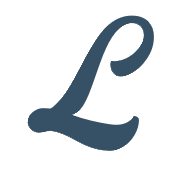
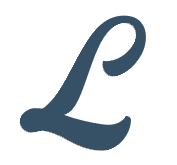
layout

Changed region(s): [[0.3672, 0.1515, 0.791, 0.7576], [0.1695, 0.0606, 0.8475, 0.6667], [0.113, 0.6667, 0.7345, 0.9394]]

diff --git a/static/css/login.css b/static/css/login.css
@@ -42,3 +42,9 @@ input{
     color: darkred;
 }
 
+
+@media only screen and (max-width: 1000px) {
+    #logo {
+        font-size: 30vw;
+    }
+}

diff --git a/app.py b/app.py
@@ -141,6 +141,9 @@ def login():
                         "login": login,
                         "password": password},
              "action": "get"})
+        if "objects" not in get_user_request:
+            return render_template("login.html", error='server error')
+
         if not get_user_request["objects"]:
             return render_template("login.html", error='account not found')
 
@@ -221,7 +224,8 @@ def get_followeds_lists(user_id, user_key):
         {"account": {"type": "session",
                      "user_id": user_id, "key": user_key},
          "object": {"type": "follow",
-                    "follower": user_id},
+                    "follower": user_id,
+                    "following": "follow_account"},
          "action": "get"})
     followeds_ids = [x["followed"] for x in result["objects"]]
     lists = []

diff --git a/test/test_requester.py b/test/test_requester.py
@@ -22,4 +22,4 @@ class TestRequester(TestCase):
     @patch('requests.post', side_effect=ret_val)
     def test_make_request(self, test_patch):
         value = self.requester.make_request("message")
-        self.assertEqual(value, [['http://localhost:8080'], {'data': '"message"'}])
+        self.assertEqual(value[1], {'data': '"message"'})
